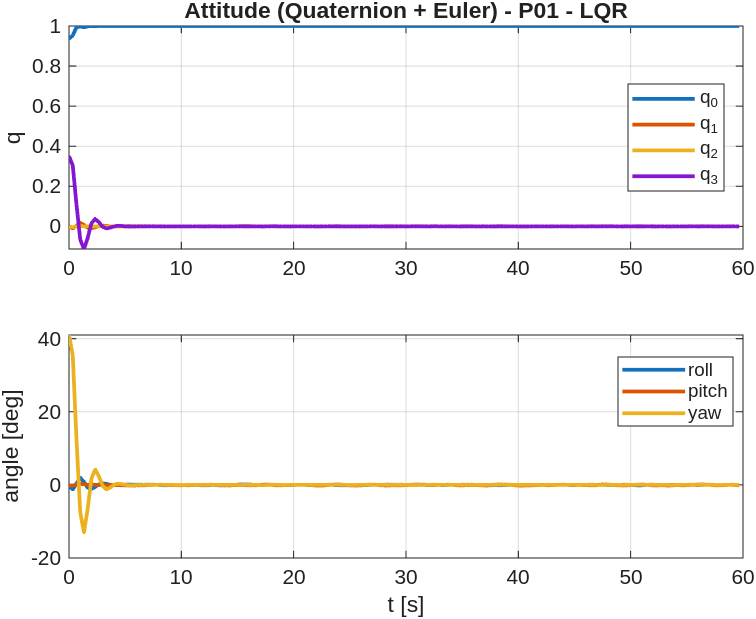
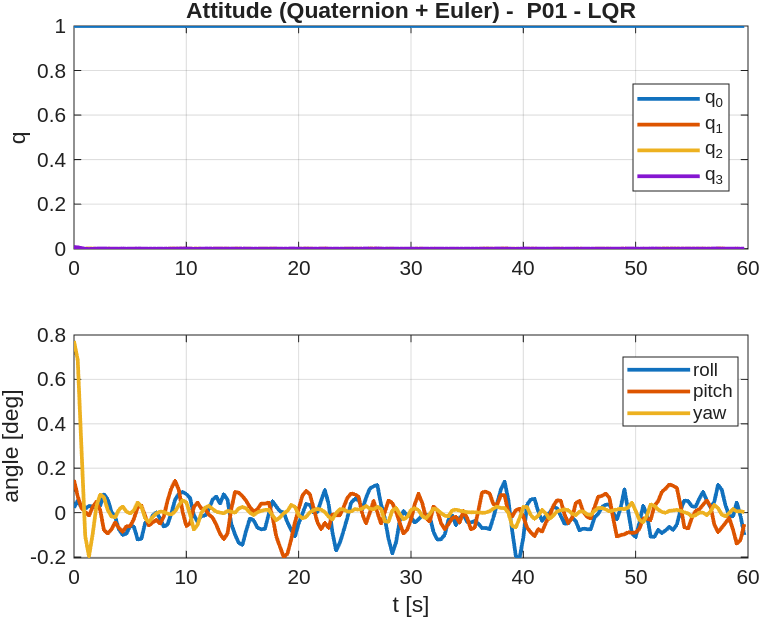
Update Q_q weight matrix in run_P01_LQR function for consistent test

diff --git a/MATLAB/GNC_Algorithms/Control/run_P01_LQR.m b/MATLAB/GNC_Algorithms/Control/run_P01_LQR.m
@@ -38,7 +38,7 @@ function run_P01_LQR()
     % WEIGHTS FOR YOUR CONTROLLER
     Q_pos = diag([  5,  5, 40 ]);
     Q_vel = diag([  2,  2,  12 ]);
-    Q_q   = diag([ 40, 20, 20, 20 ]);
+    Q_q   = diag([ 20, 20, 20, 20 ]);
     Q_omega  = diag([  2,  2,  2 ]);
     Q = blkdiag(Q_pos, Q_vel, Q_q, Q_omega);
 
